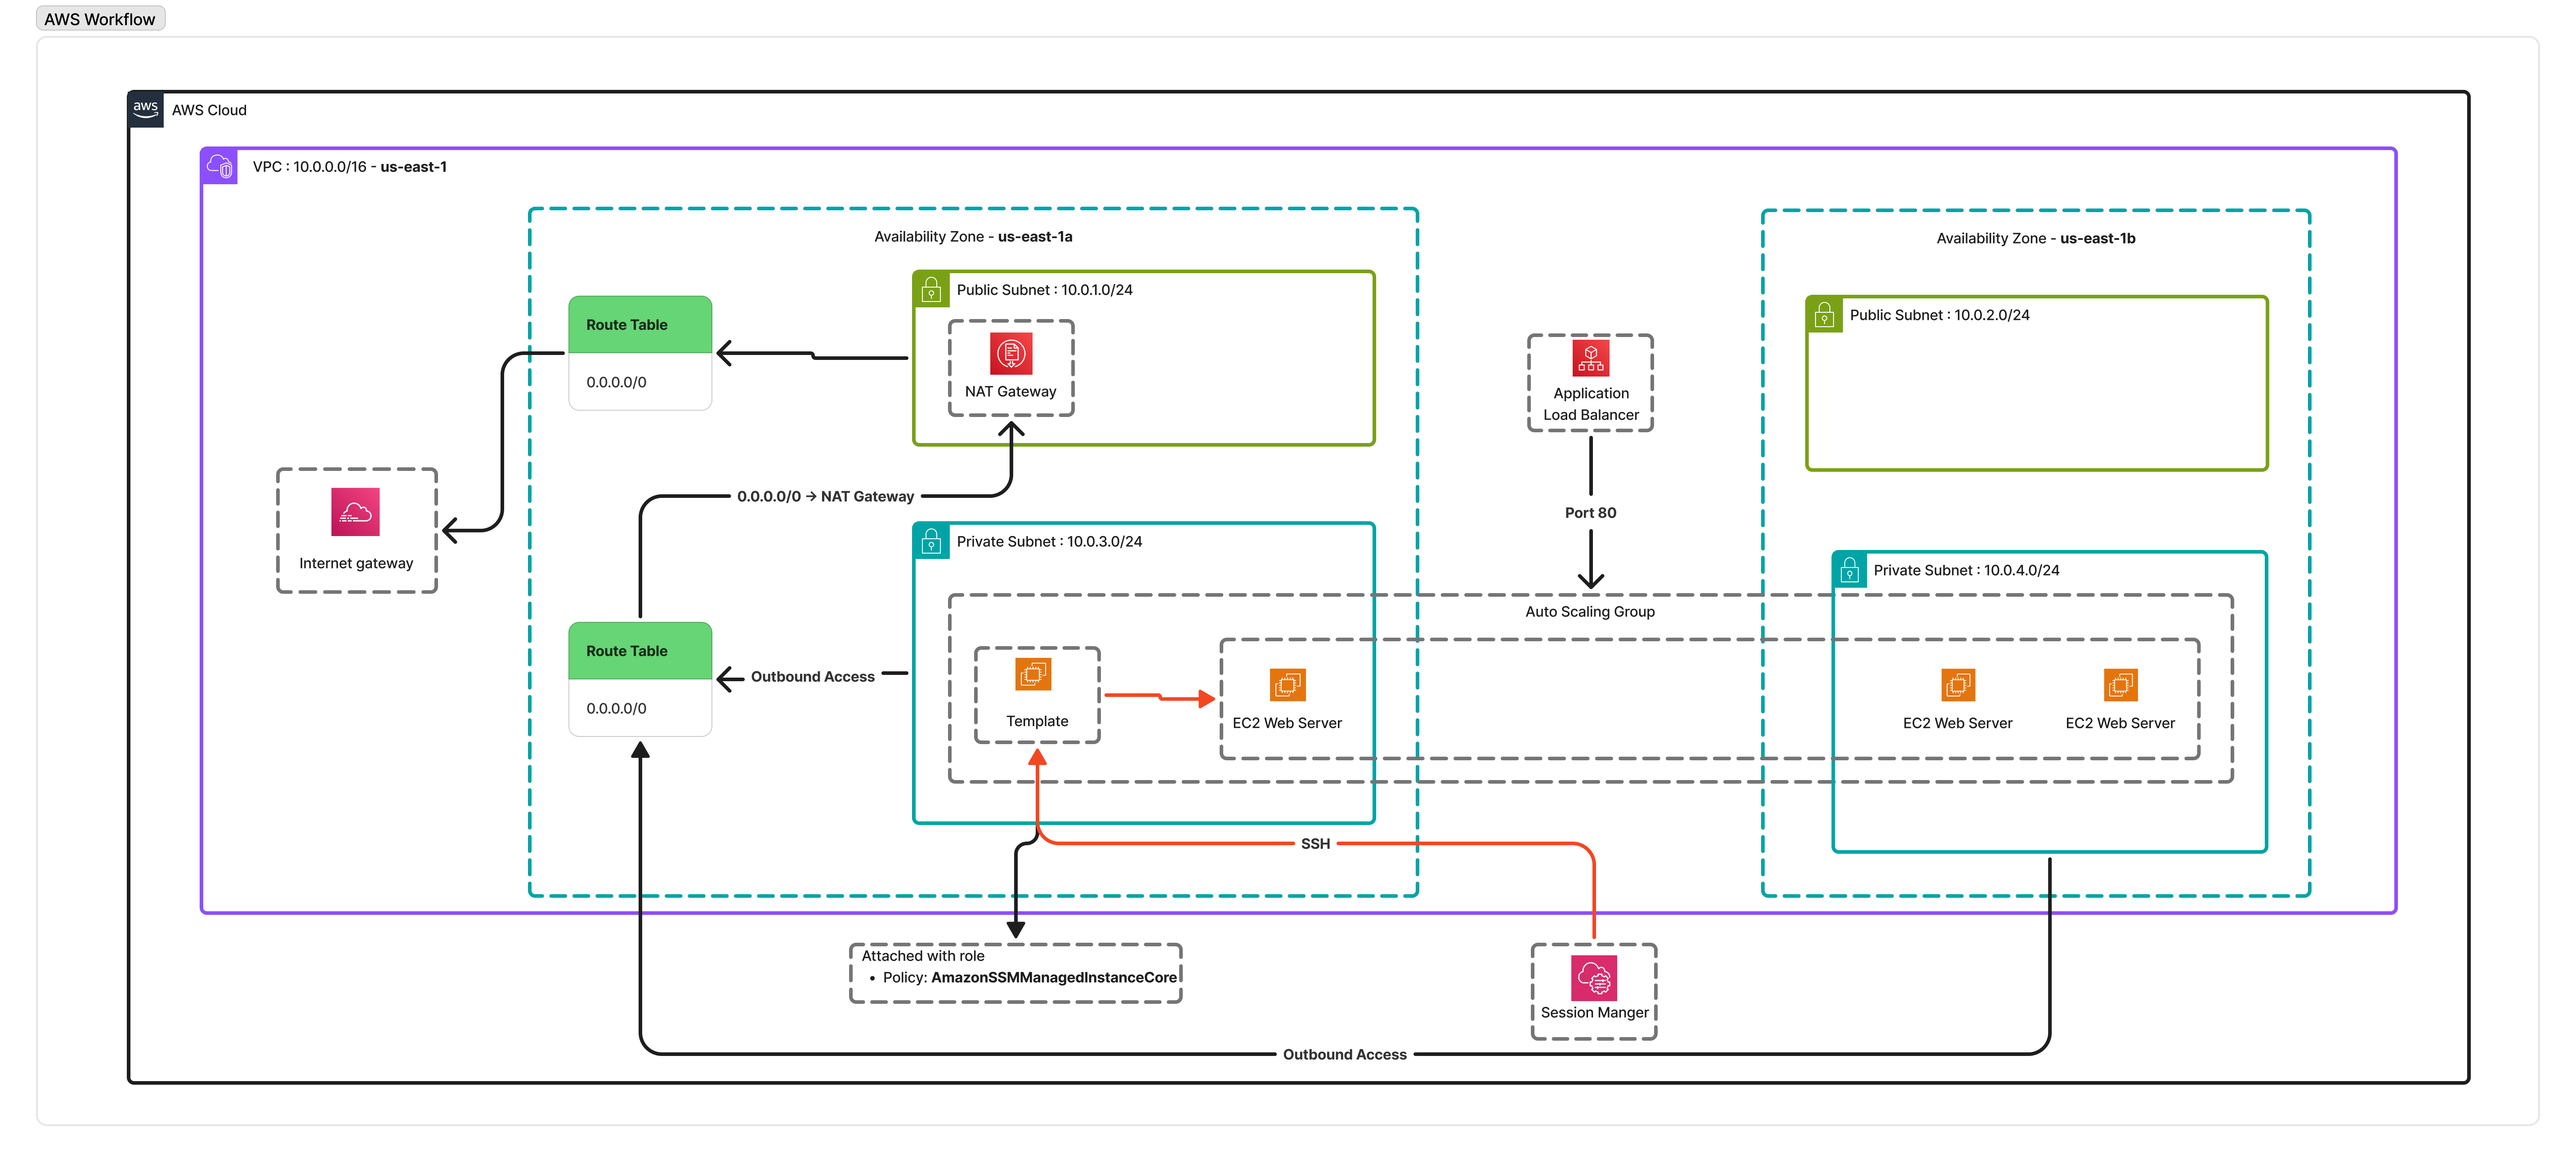
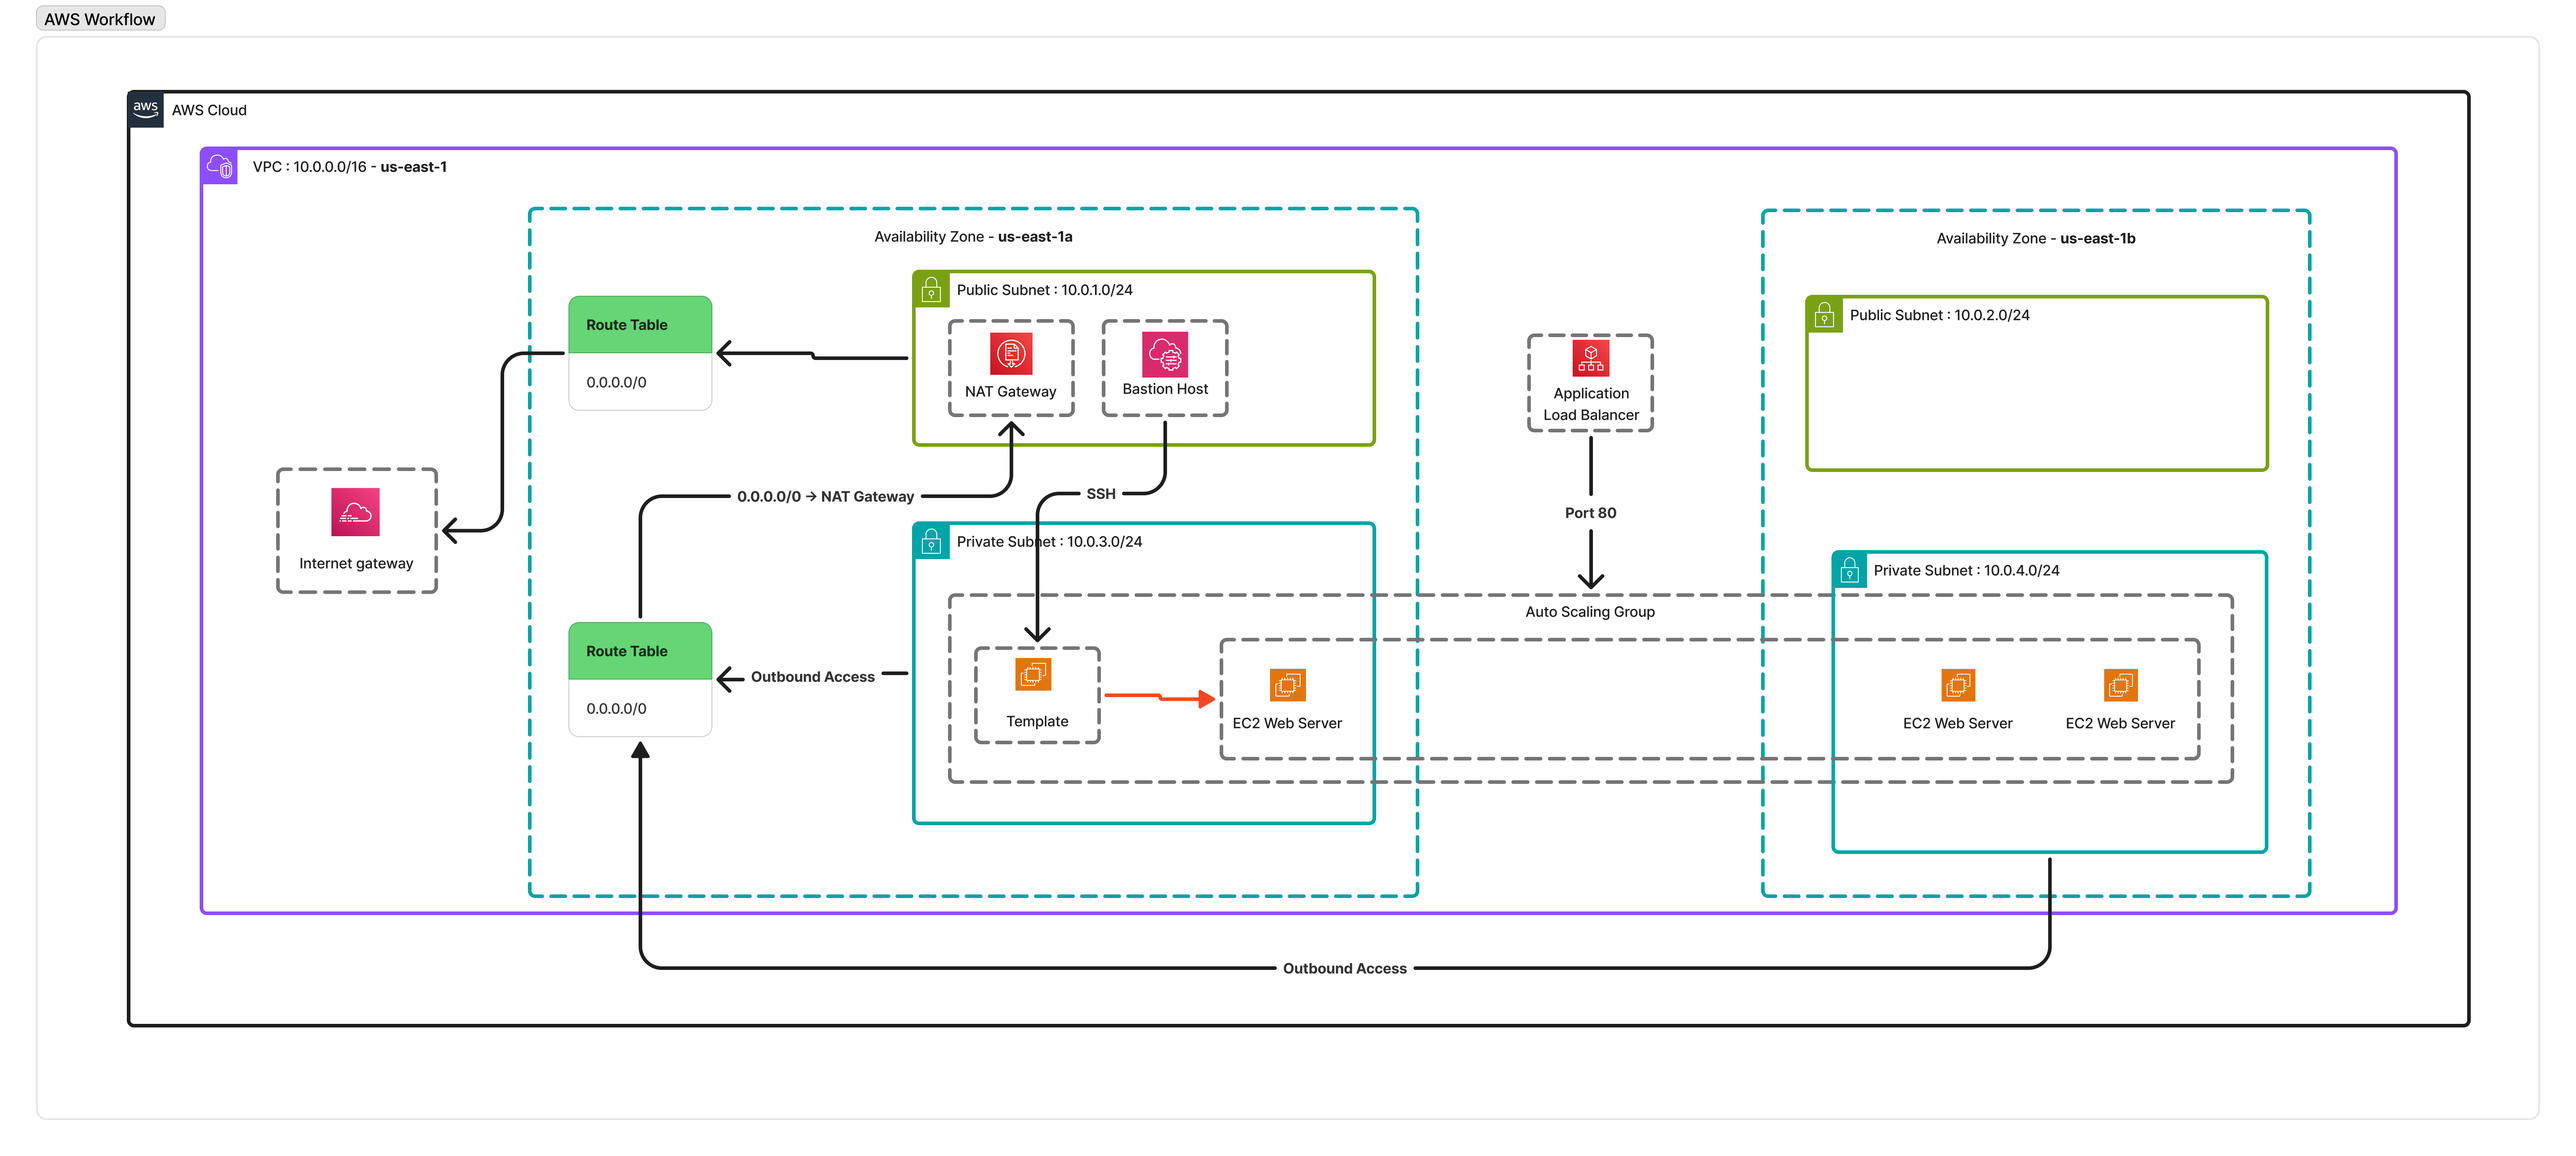
update

diff --git a/README.md b/README.md
@@ -25,13 +25,13 @@ The infrastructure is deployed inside **Amazon Virtual Private Clound** with the
 
 Security is implemented using multiple layers:
 
-- **Session Manager**
+- **Bastion Host**
   - Allow controlled SSH acccess to private instances.
 - **Load Balancer**
   - Handles all public HTTPS traffic.
 - **Private Web Service**
   - No public IP addresses.
-  - Accessible only through the load balancer or session manager.
+  - Accessible only through the load balancer (port 80) or bastion host (port 22).
 
 ---
 
@@ -40,7 +40,7 @@ Security is implemented using multiple layers:
 - Infrastructure fully managed with **Terraform**
 - Isolated networking using VPC
 - Secure private web servers
-- Session Manager for controlled access
+- Bastion Host for controlled access
 - Auto Scaling for high availability
 - Clean and simple architecture suitable for learning DevOps practices
 
